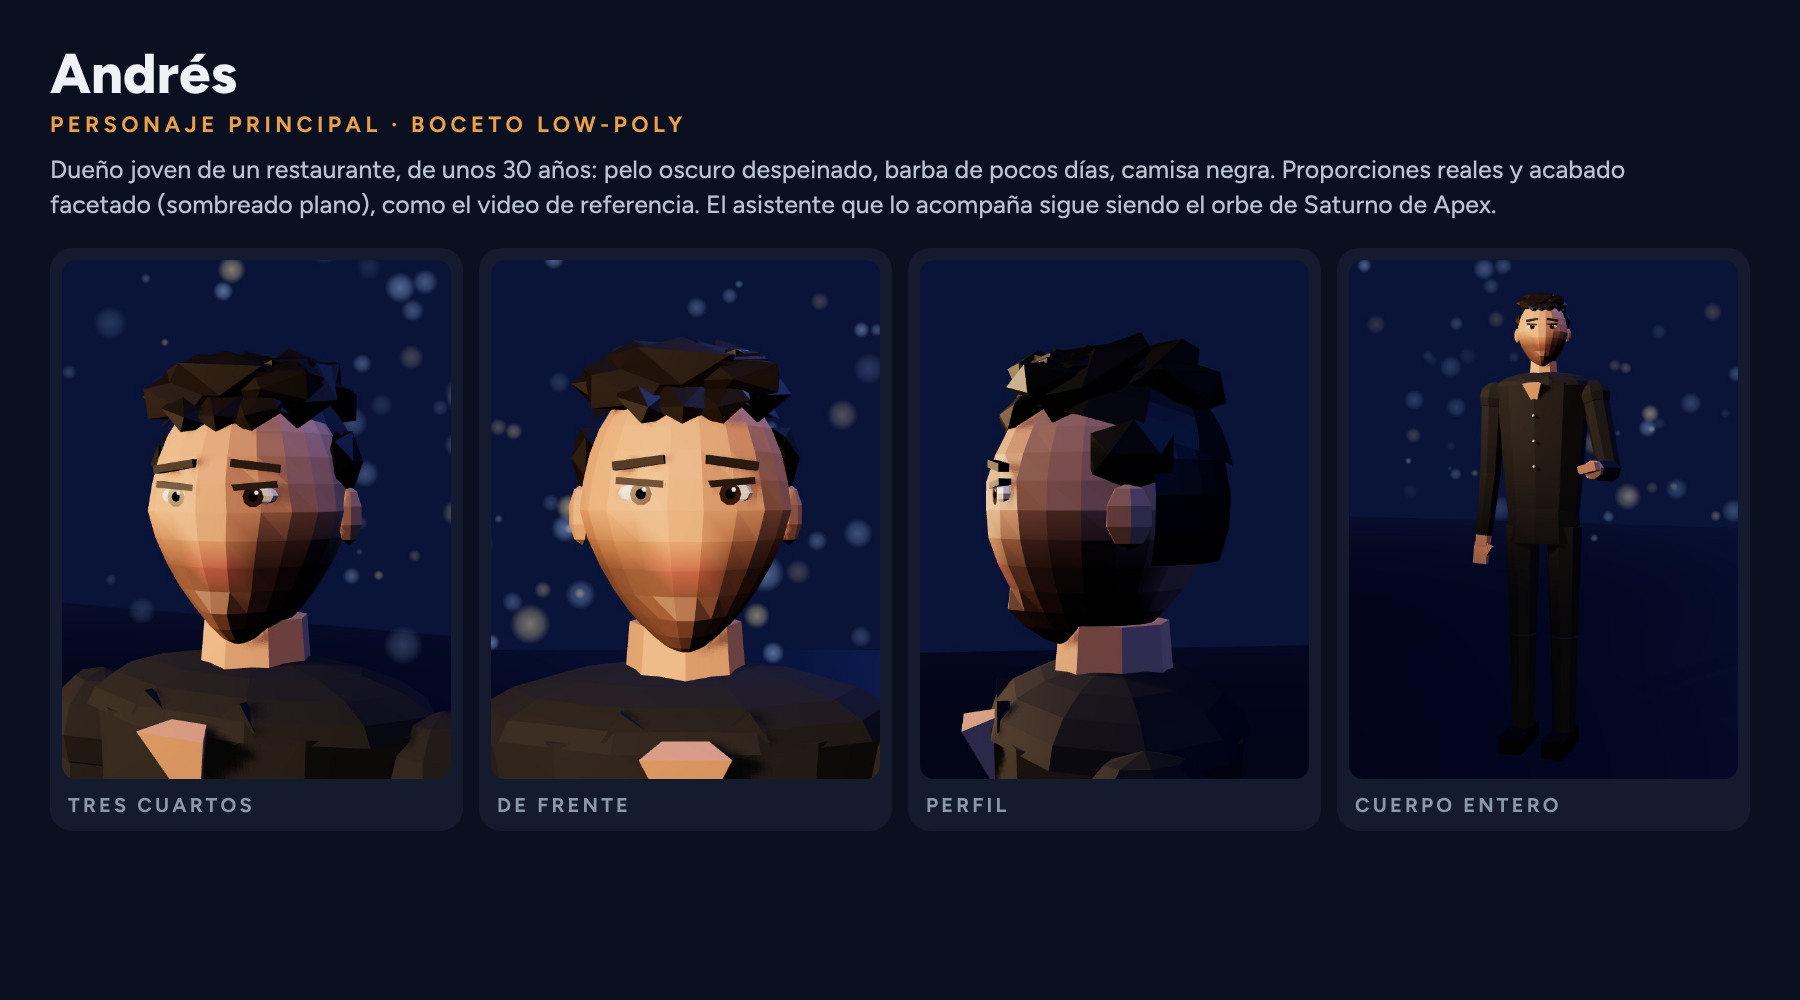
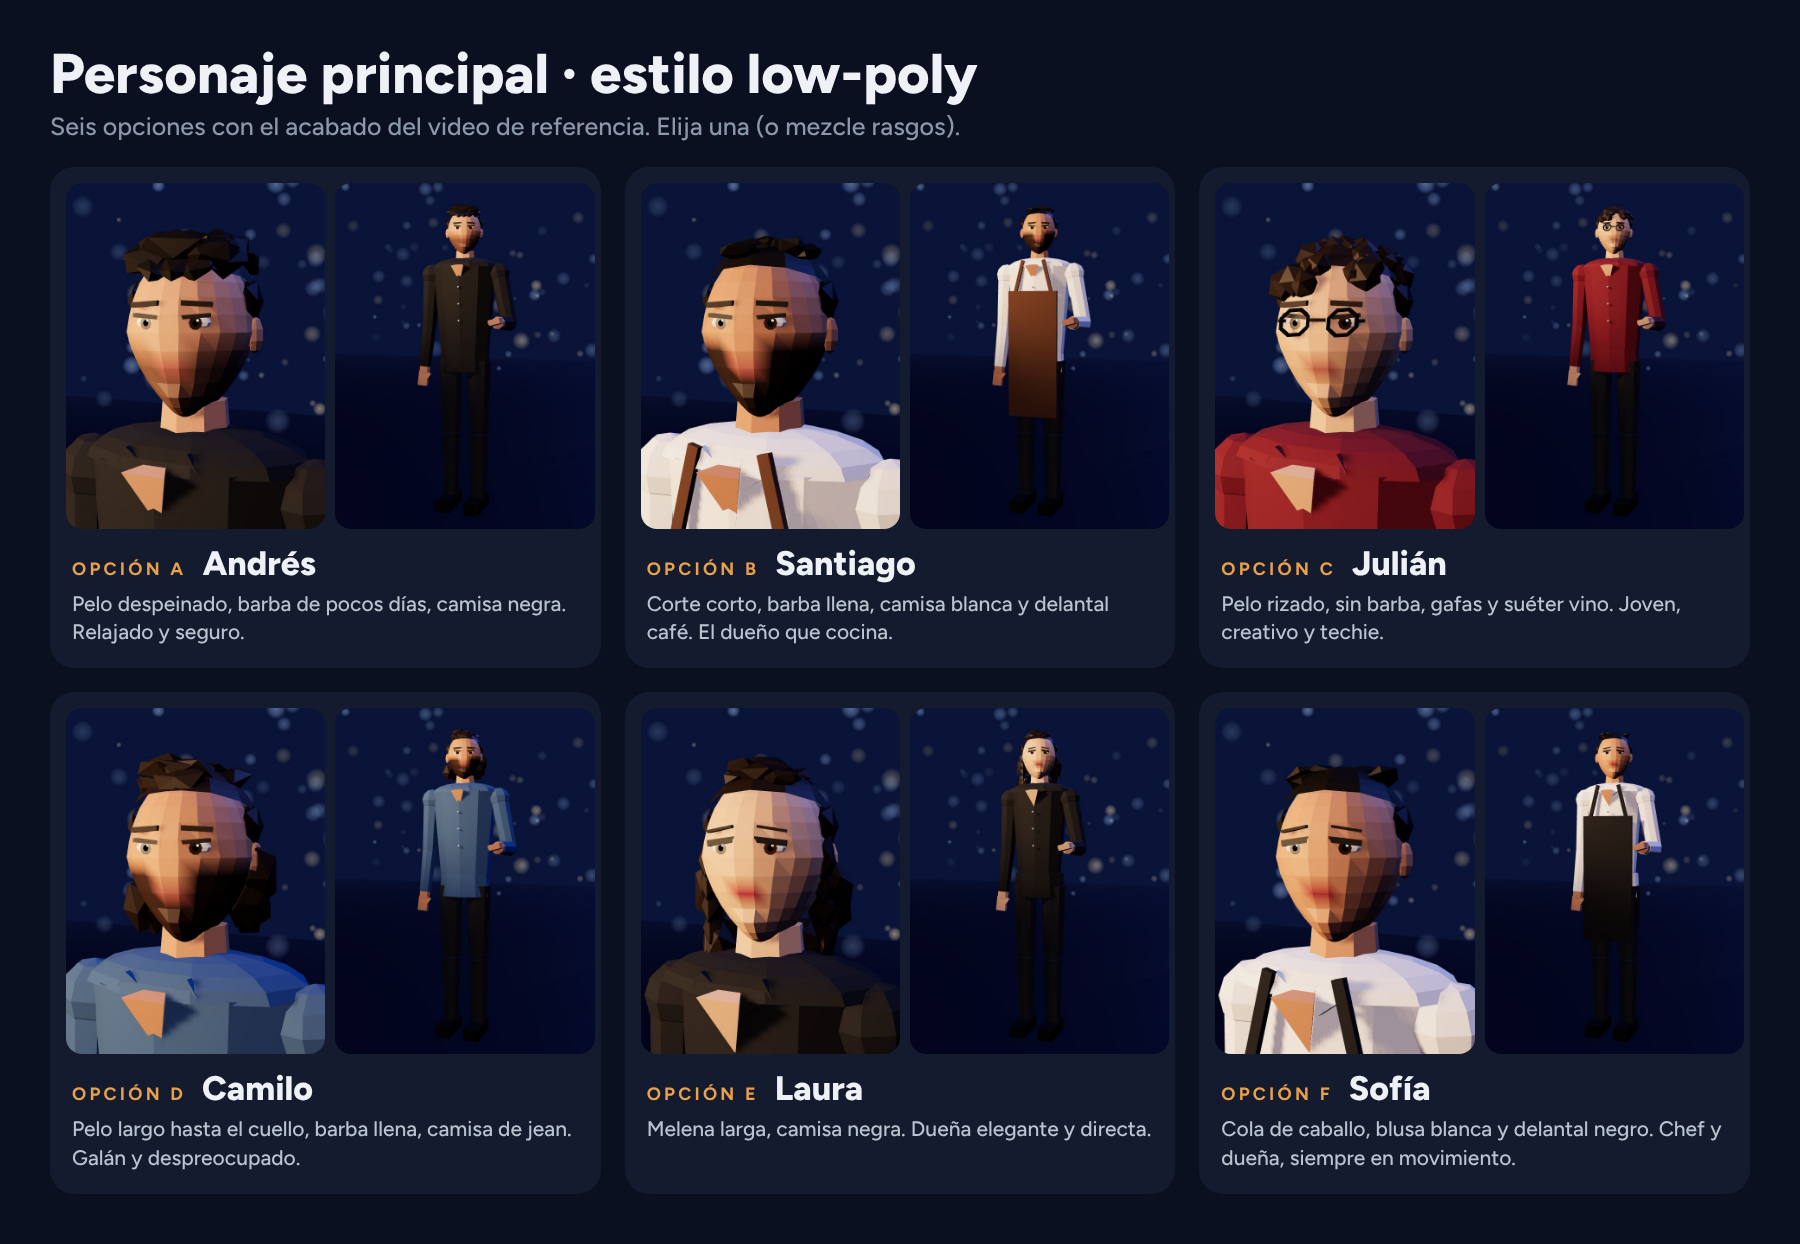
Seis bocetos del personaje principal en estilo low-poly (peinados, barbas, gafas, delantal, versiones femeninas)
Claude-Session: https://claude.ai/code/session_016r3h3eddn8zLcxunDkNv4C

diff --git a/produccion/redes/voxel/lowpoly3d.js b/produccion/redes/voxel/lowpoly3d.js
@@ -11,10 +11,10 @@ function personaLowPoly(cfg = {}) {
   const g = (x, y, sx, sy) => Math.exp(-(x * x) / sx - (y * y) / sy);
   for (let i = 0; i < p.count; i++) {
     let x = p.getX(i), y = p.getY(i), z = p.getZ(i); const fr = Math.max(0, z);
-    if (y < 0) { const k = 1 - 0.36 * Math.pow(-y, 1.3); x *= k; z = z > 0 ? z * (1 - 0.05 * -y) : z * k; }                       // mandíbula
+    if (y < 0) { const k = 1 - (c.mujer ? 0.3 : 0.36) * Math.pow(-y, 1.3); x *= k; z = z > 0 ? z * (1 - 0.05 * -y) : z * k; }                       // mandíbula
     x *= 1 + 0.07 * Math.exp(-Math.pow(y + 0.02, 2) / 0.03) * fr;                                                                   // pómulos
     if (y < -0.68 && z > 0) z += 0.16 * Math.exp(-(x * x) / 0.06);                                                                   // mentón
-    z += 0.3 * g(x, y + 0.08, 0.008, 0.05) * (z > 0.5 ? 1 : 0);                                                                      // nariz
+    z += (c.mujer ? 0.2 : 0.3) * g(x, y + 0.08, 0.007, 0.045) * (z > 0.5 ? 1 : 0);                                                                      // nariz
     z -= 0.09 * (g(x - 0.36, y - 0.12, 0.02, 0.012) + g(x + 0.36, y - 0.12, 0.02, 0.012)) * fr;                                     // cuencas
     z += 0.06 * Math.exp(-Math.pow(y - 0.27, 2) / 0.008) * fr * (Math.abs(x) < 0.7 ? 1 : 0);                                        // ceja ósea
     if (y > 0.7) y = 0.7 + (y - 0.7) * 0.8;                                                                                         // coronilla un poco plana
@@ -22,7 +22,7 @@ function personaLowPoly(cfg = {}) {
     // color por vértice: piel, barba de pocos días en mandíbula y bigote, labios
     let cc = piel.clone(); const yb = y;
     const zonaBarba = (yb < -0.14 && z > -0.3) && !(Math.abs(x) < 0.16 && yb > -0.32 && z > 0.85);
-    if (zonaBarba) cc.lerp(barba, 0.7 * Math.min(1, (-0.14 - yb) * 4 + 0.35));
+    const fb = c.barbaNivel ?? (c.mujer ? 0 : 0.7); if (zonaBarba && fb > 0) cc.lerp(barba, Math.min(0.95, fb * Math.min(1, (-0.14 - yb) * 4 + 0.35 + (fb > 0.85 ? 0.5 : 0))));
     if (yb < -0.36 && yb > -0.5 && Math.abs(x) < 0.28 && z > 0.82) cc = lab.clone();
     col.push(cc.r, cc.g, cc.b);
   }
@@ -38,27 +38,41 @@ function personaLowPoly(cfg = {}) {
     const iris = add(new THREE.CircleGeometry(0.0098, 10), new THREE.MeshStandardMaterial({ color: c.iris, roughness: 0.2 }), 0, -0.001, 0.0086, e);
     add(new THREE.CircleGeometry(0.0048, 8), new THREE.MeshBasicMaterial({ color: 0x050403 }), 0, -0.001, 0.0088, e);
     add(new THREE.CircleGeometry(0.0022, 6), new THREE.MeshBasicMaterial({ color: 0xffffff }), 0.003, 0.003, 0.009, e);
-    const lid = add(new THREE.BoxGeometry(0.044, 0.006, 0.012), F(c.pelo, 0.6), 0, 0.009, 0.004, e); lid.rotation.z = d * 0.08;
-    const ceja = add(new THREE.BoxGeometry(0.046, 0.0075, 0.01), F(c.pelo, 0.7), d * 0.002, 0.026, 0.006, e); ceja.rotation.z = -d * 0.12;
+    const lid = add(new THREE.BoxGeometry(c.mujer ? 0.048 : 0.044, c.mujer ? 0.009 : 0.006, 0.012), F(c.mujer ? "#0d0a09" : c.pelo, 0.6), 0, 0.009, 0.004, e); lid.rotation.z = d * (c.mujer ? -0.12 : 0.08);
+    const ceja = add(new THREE.BoxGeometry(c.mujer ? 0.044 : 0.046, c.mujer ? 0.004 : 0.0075, 0.01), F(c.pelo, 0.7), d * 0.002, c.mujer ? 0.03 : 0.026, 0.006, e); ceja.rotation.z = c.mujer ? -d * 0.16 : -d * 0.05;
     return { e, iris, ceja }; });
   // pelo: mechones facetados despeinados (más volumen arriba y adelante)
   const mP = F(c.pelo, 0.6), r = semilla(c.semilla || 11);
   const tapa = add(new THREE.SphereGeometry(R * 1.04, 12, 8, 0, 2 * PI, 0, PI * 0.36), mP, 0, R * 0.14, -R * 0.06, cabeza); tapa.scale.set(0.92, 1.05, 1.02); tapa.rotation.x = -0.28;
   add(new THREE.SphereGeometry(R * 1.03, 12, 8, PI * 1.08, PI * 0.84, 0, PI * 0.64), mP, 0, R * 0.05, -R * 0.03, cabeza).scale.set(0.9, 1.08, 1.0);
   [-1, 1].forEach((d) => { const lado = add(new THREE.IcosahedronGeometry(R * 0.34, 0), mP, d * R * 0.8, R * 0.42, -R * 0.12, cabeza); lado.scale.set(0.45, 0.9, 1.1); });
-  for (let i = 0; i < 16; i++) { const a = r() * PI * 2, el = 0.35 + r() * 0.5; const m = add(new THREE.IcosahedronGeometry(R * (0.32 + r() * 0.16), 0), mP,
+  const peinado = c.peinado || "despeinado", mech = (n, rad, yBase, desv, esc) => { for (let i = 0; i < n; i++) { const a = r() * PI * 2, el = 0.3 + r() * 0.55;
+      const m = add(new THREE.IcosahedronGeometry(R * rad * (0.8 + r() * 0.4), 0), mP, Math.cos(a) * Math.sin(el) * R * 0.8, R * (yBase + Math.cos(el) * 0.42), Math.sin(a) * Math.sin(el) * R * 0.8 + desv, cabeza);
+      m.scale.set(...esc); m.rotation.set(r() * 1.2 - 0.6, a, r() * 0.8 - 0.4); } };
+  if (peinado === "despeinado") { for (let i = 0; i < 16; i++) { const a = r() * PI * 2, el = 0.35 + r() * 0.5; const m = add(new THREE.IcosahedronGeometry(R * (0.32 + r() * 0.16), 0), mP,
       Math.cos(a) * Math.sin(el) * R * 0.78, R * (0.7 + Math.cos(el) * 0.42), Math.sin(a) * Math.sin(el) * R * 0.78 - R * 0.02, cabeza); m.scale.set(1, 0.55, 1.5); m.rotation.set(r() * 1.2 - 0.6, a, r() * 0.8 - 0.4); }
-  for (let i = 0; i < 3; i++) { const m = add(new THREE.IcosahedronGeometry(R * 0.3, 0), mP, R * (-0.3 + i * 0.28), R * 0.86, R * 0.55, cabeza); m.scale.set(0.9, 0.45, 1.3); m.rotation.set(0.5, 0, -0.4 + i * 0.35); }
+  for (let i = 0; i < 3; i++) { const m = add(new THREE.IcosahedronGeometry(R * 0.3, 0), mP, R * (-0.3 + i * 0.28), R * 0.86, R * 0.55, cabeza); m.scale.set(0.9, 0.45, 1.3); m.rotation.set(0.5, 0, -0.4 + i * 0.35); } }
+  if (peinado === "corto") { mech(10, 0.26, 0.74, -R * 0.02, [1, 0.4, 1.3]); }
+  if (peinado === "rizado") { for (let i = 0; i < 40; i++) { const a = r() * PI * 2, el = r() * 1.25; const m = add(new THREE.IcosahedronGeometry(R * (0.17 + r() * 0.07), 0), mP,
+      Math.cos(a) * Math.sin(el) * R * 1.0, R * (0.25 + Math.cos(el) * 0.85), Math.sin(a) * Math.sin(el) * R * 0.98 - R * 0.05, cabeza); m.rotation.set(r() * 3, r() * 3, r() * 3); } }
+  if (peinado === "largo" || peinado === "melena") { mech(12, 0.3, 0.7, -R * 0.02, [1, 0.5, 1.4]); const larg = peinado === "melena" ? 1.7 : 1.05;
+    for (let i = 0; i < 14; i++) { const a = PI * (0.62 + r() * 0.76), m = add(new THREE.IcosahedronGeometry(R * 0.32, 0), mP, Math.cos(a) * R * 0.86 * (i % 2 ? 1 : -1) * 0.95 + (r() - 0.5) * R * 0.2, -R * (0.1 + r() * 0.75 * larg), -Math.abs(Math.sin(a)) * R * 0.55 - R * 0.1, cabeza); m.scale.set(0.8, 1.5, 0.9); m.rotation.set(r() * 0.4, r() * 2, r() * 0.3); }
+    if (peinado === "melena") [-1, 1].forEach((d) => { for (let k = 0; k < 4; k++) { const m = add(new THREE.IcosahedronGeometry(R * 0.26, 0), mP, d * R * 0.82, -R * (0.05 + k * 0.32), R * 0.05 - k * R * 0.05, cabeza); m.scale.set(0.6, 1.5, 0.9); } }); }
+  if (peinado === "coleta") { mech(8, 0.24, 0.76, -R * 0.04, [1, 0.38, 1.3]); for (let k = 0; k < 6; k++) { const m = add(new THREE.IcosahedronGeometry(R * (0.3 - k * 0.025), 0), mP, 0, R * (0.75 - k * 0.32), -R * (1.05 + k * 0.08), cabeza); m.scale.set(0.9, 1.4, 0.9); } }
+  if (peinado === "mono") { mech(8, 0.24, 0.76, -R * 0.04, [1, 0.38, 1.3]); add(new THREE.IcosahedronGeometry(R * 0.42, 1), mP, 0, R * 1.08, -R * 0.35, cabeza).scale.set(1, 0.8, 1); }
+  if (c.gafas) { const mg = F(c.gafas, 0.3); [-1, 1].forEach((d) => { const ar = add(new THREE.TorusGeometry(R * 0.2, R * 0.03, 4, 8), mg, d * R * 0.31, R * 0.13, R * 0.97, cabeza); ar.rotation.z = PI / 8; ar.scale.y = 0.8; });
+    add(new THREE.BoxGeometry(R * 0.2, R * 0.04, R * 0.04), mg, 0, R * 0.16, R * 1.0, cabeza); [-1, 1].forEach((d) => add(new THREE.BoxGeometry(R * 0.04, R * 0.04, R * 0.8), mg, d * R * 0.52, R * 0.15, R * 0.55, cabeza)); }
   // ---------- cuerpo (proporciones reales, pocas caras)
   const mCam = F(c.camisa, 0.85), mPan = F(c.pantalon, 0.85), mPiel = F(c.piel, 0.65);
   const torso = new THREE.Group(); torso.position.set(0, 0.95, 0); cuerpo.add(torso);
-  const t = add(new THREE.CylinderGeometry(0.2, 0.15, 0.55, 10), mCam, 0, 0.27, 0, torso); t.scale.z = 0.62;
+  const t = add(new THREE.CylinderGeometry(c.mujer ? 0.175 : 0.2, c.mujer ? 0.13 : 0.15, 0.55, 10), mCam, 0, 0.27, 0, torso); t.scale.z = 0.62;
+  if (c.delantal) { const dl = add(new THREE.BoxGeometry(0.3, 0.75, 0.02), F(c.delantal, 0.9), 0, 0.02, 0.13, torso); [-1, 1].forEach((d) => add(new THREE.BoxGeometry(0.02, 0.22, 0.012), F(c.delantal, 0.9), d * 0.09, 0.47, 0.12, torso).rotation.z = d * 0.25); }
   add(new THREE.CylinderGeometry(0.15, 0.16, 0.14, 10), mCam, 0, -0.02, 0, torso).scale.z = 0.66;
   add(new THREE.SphereGeometry(0.2, 10, 5, 0, 2 * PI, 0, PI * 0.5), mCam, 0, 0.54, 0, torso).scale.set(1.05, 0.3, 0.64);
   const v = add(new THREE.ConeGeometry(0.045, 0.1, 3), mPiel, 0, 0.5, 0.115, torso); v.rotation.set(PI + 0.25, 0, 0);
   [-1, 1].forEach((d) => { const cuel = add(new THREE.BoxGeometry(0.06, 0.03, 0.012), mCam, d * 0.04, 0.545, 0.11, torso); cuel.rotation.z = d * 0.6; });
   for (let i = 0; i < 3; i++) add(new THREE.SphereGeometry(0.006, 6, 4), F("#d9d4cc", 0.4), 0, 0.42 - i * 0.1, 0.128 - i * 0.004, torso);
-  const brazos = [-1, 1].map((d) => { const h = new THREE.Group(); h.position.set(d * 0.215, 0.5, 0); torso.add(h); add(new THREE.SphereGeometry(0.065, 8, 6), mCam, 0, 0, 0, h);
+  const brazos = [-1, 1].map((d) => { const h = new THREE.Group(); h.position.set(d * (c.mujer ? 0.19 : 0.215), 0.5, 0); torso.add(h); add(new THREE.SphereGeometry(0.065, 8, 6), mCam, 0, 0, 0, h);
     add(new THREE.CylinderGeometry(0.055, 0.046, 0.3, 8), mCam, 0, -0.16, 0, h); const codo = new THREE.Group(); codo.position.set(0, -0.31, 0); h.add(codo);
     add(new THREE.CylinderGeometry(0.046, 0.038, 0.27, 8), mCam, 0, -0.13, 0, codo); add(new THREE.CylinderGeometry(0.036, 0.034, 0.05, 8), mPiel, 0, -0.28, 0, codo);
     const mano = add(new THREE.BoxGeometry(0.06, 0.09, 0.03), mPiel, 0, -0.34, 0.005, codo); add(new THREE.BoxGeometry(0.018, 0.045, 0.02), mPiel, -d * 0.032, -0.325, 0.012, codo).rotation.z = d * 0.5;

diff --git a/produccion/redes/voxel/lowpoly.py b/produccion/redes/voxel/lowpoly.py
@@ -1,40 +1,52 @@
-"""Boceto del personaje principal en acabado low-poly (facetado), con fondo de ciudad de noche.
+"""Bocetos del personaje principal en acabado low-poly: seis opciones para elegir (retrato de tres cuartos y cuerpo entero).
   python lowpoly.py  →  entregables/redes/bocetos/personaje-principal.png"""
 import os, json, asyncio, importlib.util
 AQUI = os.path.dirname(os.path.abspath(__file__)) + "/"
 _spec = importlib.util.spec_from_file_location("motor", AQUI + "../heroes/hacer.py"); motor = importlib.util.module_from_spec(_spec); _spec.loader.exec_module(motor)
 RAIZ = motor.RAIZ; SALIDA = RAIZ + "entregables/redes/bocetos/"; THREE = motor.TRABAJO + "three/package/build/three.min.js"
-VISTAS = [("Tres cuartos", [0.55, 1.72, 0.85], [0, 1.69, 0], 30, dict(mira=0.25, cejas=0.4)), ("De frente", [0, 1.71, 0.95], [0, 1.69, 0], 30, dict()),
-          ("Perfil", [0.95, 1.71, 0.12], [0, 1.69, 0], 30, dict(mira=0.0)), ("Cuerpo entero", [1.1, 1.25, 3.3], [0, 0.95, 0], 34, dict(bd=[-0.2, 0.25, -1.4], mira=0.3))]
+OPCIONES = [
+    dict(letra="A", nombre="Andrés", desc="Pelo despeinado, barba de pocos días, camisa negra. Relajado y seguro.", cfg=dict(semilla=11)),
+    dict(letra="B", nombre="Santiago", desc="Corte corto, barba llena, camisa blanca y delantal café. El dueño que cocina.",
+         cfg=dict(semilla=12, peinado="corto", barbaNivel=1.0, piel="#b98060", camisa="#efece6", delantal="#5a3b26", pelo="#120e0c", barba="#1e1612")),
+    dict(letra="C", nombre="Julián", desc="Pelo rizado, sin barba, gafas y suéter vino. Joven, creativo y techie.",
+         cfg=dict(semilla=13, peinado="rizado", barbaNivel=0.15, piel="#d8a582", camisa="#6e1f2a", gafas="#1a1a1c", pelo="#2a1a12")),
+    dict(letra="D", nombre="Camilo", desc="Pelo largo hasta el cuello, barba llena, camisa de jean. Galán y despreocupado.",
+         cfg=dict(semilla=14, peinado="largo", barbaNivel=1.0, piel="#c68b68", camisa="#3e5f86", pelo="#2b1c14", barba="#2b1c14")),
+    dict(letra="E", nombre="Laura", desc="Melena larga, camisa negra. Dueña elegante y directa.",
+         cfg=dict(semilla=15, mujer=True, peinado="melena", piel="#dcab88", labios="#a5404a", camisa="#1c1d22", pelo="#22140e", iris="#4a2c18")),
+    dict(letra="F", nombre="Sofía", desc="Cola de caballo, blusa blanca y delantal negro. Chef y dueña, siempre en movimiento.",
+         cfg=dict(semilla=16, mujer=True, peinado="coleta", piel="#c58a68", labios="#9a3a44", camisa="#f2efea", delantal="#1d1e22", pelo="#140e0b", iris="#3a2416")),
+]
 def main():
     leer = lambda p: open(p).read(); W = motor.TRABAJO + "bocetos/"; os.makedirs(W, exist_ok=True); os.makedirs(SALIDA, exist_ok=True)
-    imgs = "".join(f'<figure><img id="v{i}"><figcaption>{n}</figcaption></figure>' for i, (n, *_) in enumerate(VISTAS))
+    tarjetas = "".join(f'<div class="t"><div class="fotos"><img id="r{o["letra"]}"><img id="c{o["letra"]}"></div><h2><span>Opción {o["letra"]}</span> {o["nombre"]}</h2><p>{o["desc"]}</p></div>' for o in OPCIONES)
     html = f'''<!doctype html><html><head><meta charset="utf-8">{leer(RAIZ + "produccion/videos/fuentes.html")}<style>
-body{{margin:0;background:#0b1020;color:#eef2f6;font-family:Figtree;width:1800px}} h1{{font:800 56px Figtree;margin:40px 50px 4px}} h3{{font:700 22px Figtree;letter-spacing:.2em;color:#e8a04a;margin:0 50px}}
-p{{font:500 25px/1.4 Figtree;color:#b9c4d0;margin:14px 50px 26px;max-width:1600px}} .g{{display:flex;gap:16px;padding:0 50px 50px}} figure{{margin:0;flex:1;background:#141b2e;border-radius:22px;padding:12px}}
-img{{width:100%;border-radius:14px}} figcaption{{font:700 20px Figtree;letter-spacing:.16em;text-transform:uppercase;color:#8a98a8;margin:10px 6px 2px}}</style></head><body>
-<h1>Andrés</h1><h3>PERSONAJE PRINCIPAL · BOCETO LOW-POLY</h3>
-<p>Dueño joven de un restaurante, de unos 30 años: pelo oscuro despeinado, barba de pocos días, camisa negra. Proporciones reales y acabado facetado (sombreado plano), como el video de referencia. El asistente que lo acompaña sigue siendo el orbe de Saturno de Apex.</p>
-<div class="g">{imgs}</div><canvas id="lienzo" width="600" height="800" style="display:none"></canvas>
+body{{margin:0;background:#0b1020;color:#eef2f6;font-family:Figtree;width:1800px}} h1{{font:800 56px Figtree;margin:40px 50px 4px}} .sub{{margin:0 50px 26px;color:#8a98a8;font:500 25px Figtree}}
+.g{{display:grid;grid-template-columns:repeat(3,1fr);gap:24px;padding:0 50px 50px}} .t{{background:#141b2e;border-radius:24px;padding:16px 16px 22px}}
+.fotos{{display:flex;gap:10px}} .fotos img{{width:50%;border-radius:16px}} h2{{font:800 34px Figtree;margin:14px 6px 0}} h2 span{{font:700 18px Figtree;letter-spacing:.18em;text-transform:uppercase;color:#e8a04a;margin-right:8px}}
+p{{font:500 21px/1.35 Figtree;color:#b9c4d0;margin:6px 6px 0}}</style></head><body>
+<h1>Personaje principal · estilo low-poly</h1><div class="sub">Seis opciones con el acabado del video de referencia. Elija una (o mezcle rasgos).</div><div class="g">{tarjetas}</div>
+<canvas id="lienzo" width="600" height="800" style="display:none"></canvas>
 <script src="file://{THREE}"></script>
 <script>const PI = Math.PI; function semilla(s) {{ return () => {{ s |= 0; s = (s + 0x6d2b79f5) | 0; let t = Math.imul(s ^ (s >>> 15), 1 | s); t = (t + Math.imul(t ^ (t >>> 7), 61 | t)) ^ t; return ((t ^ (t >>> 14)) >>> 0) / 4294967296; }}; }}
-const VISTAS = {json.dumps([[a, b, f, e] for (_, a, b, f, e) in VISTAS])};
+const OPS = {json.dumps(OPCIONES, ensure_ascii=False)};
 {leer(AQUI + "lowpoly3d.js")}
 const REN = new THREE.WebGLRenderer({{ canvas: document.getElementById("lienzo"), antialias: true, preserveDrawingBuffer: true }});
 REN.setSize(600, 800, false); REN.shadowMap.enabled = true; REN.toneMapping = THREE.ACESFilmicToneMapping; REN.toneMappingExposure = 1.15; REN.outputColorSpace = THREE.SRGBColorSpace;
 const ESC = new THREE.Scene(); ESC.background = new THREE.Color(0x0a1438); ESC.fog = new THREE.Fog(0x0a1438, 6, 22);
-// ventanal con ciudad de noche desenfocada: luces cálidas y azules
 const bok = (() => {{ const cv = document.createElement("canvas"); cv.width = cv.height = 64; const g = cv.getContext("2d"), gr = g.createRadialGradient(32, 32, 0, 32, 32, 32); gr.addColorStop(0, "rgba(255,255,255,.95)"); gr.addColorStop(0.6, "rgba(255,255,255,.55)"); gr.addColorStop(1, "rgba(255,255,255,0)"); g.fillStyle = gr; g.fillRect(0, 0, 64, 64); return new THREE.CanvasTexture(cv); }})();
 const rr = semilla(5); for (let i = 0; i < 220; i++) {{ const s = new THREE.Sprite(new THREE.SpriteMaterial({{ map: bok, color: rr() < 0.65 ? 0x6f9bff : 0xffc37a, transparent: true, opacity: 0.25 + rr() * 0.5, depthWrite: false }}));
   s.position.set((rr() - 0.5) * 16, rr() * 6, -6 - rr() * 6); s.scale.setScalar(0.08 + rr() * 0.3); ESC.add(s); }}
 const piso = new THREE.Mesh(new THREE.PlaneGeometry(20, 20), new THREE.MeshStandardMaterial({{ color: 0x141a2e, roughness: 0.6 }})); piso.rotation.x = -PI / 2; piso.receiveShadow = true; ESC.add(piso);
-ESC.add(new THREE.HemisphereLight(0x5a78d8, 0x10142a, 0.9));
+ESC.add(new THREE.HemisphereLight(0x5a78d8, 0x3a3550, 1.1));
 const lampara = new THREE.SpotLight(0xffd2a0, 9, 6, 0.6, 0.6, 1.6); lampara.position.set(-0.9, 1.9, 1.3); lampara.castShadow = true; ESC.add(lampara);
 const relleno = new THREE.DirectionalLight(0xffe2c8, 1.1); relleno.position.set(0.6, 1.9, 3.0); ESC.add(relleno);
 const contra = new THREE.DirectionalLight(0x6f8fff, 1.6); contra.position.set(1.5, 2.5, -2.5); ESC.add(contra);
-const P = personaLowPoly({{ semilla: 11 }}); ESC.add(P.raiz); lampara.target = P.cabeza;
 const CAM = new THREE.PerspectiveCamera(30, 600 / 800, 0.05, 60);
-VISTAS.forEach(([pp, tt, f, e], i) => {{ P.pose(e); CAM.fov = f; CAM.position.set(...pp); CAM.lookAt(...tt); CAM.updateProjectionMatrix(); REN.render(ESC, CAM); document.getElementById("v" + i).src = REN.domElement.toDataURL("image/jpeg", 0.92); }});
+OPS.forEach((o) => {{ const P = personaLowPoly(o.cfg); ESC.add(P.raiz); lampara.target = P.cabeza;
+  P.pose({{ mira: 0.25, cejas: 0.3 }}); CAM.fov = 30; CAM.position.set(0.55, 1.72, 0.9); CAM.lookAt(0, 1.66, 0); CAM.updateProjectionMatrix(); REN.render(ESC, CAM); document.getElementById("r" + o.letra).src = REN.domElement.toDataURL("image/jpeg", 0.92);
+  P.pose({{ mira: 0.3, bd: [-0.2, 0.25, -1.4] }}); CAM.fov = 34; CAM.position.set(1.1, 1.25, 3.3); CAM.lookAt(0, 0.95, 0); CAM.updateProjectionMatrix(); REN.render(ESC, CAM); document.getElementById("c" + o.letra).src = REN.domElement.toDataURL("image/jpeg", 0.92);
+  ESC.remove(P.raiz); }});
 </script></body></html>'''
     open(W + "lowpoly.html", "w").write(html)
     async def foto():
